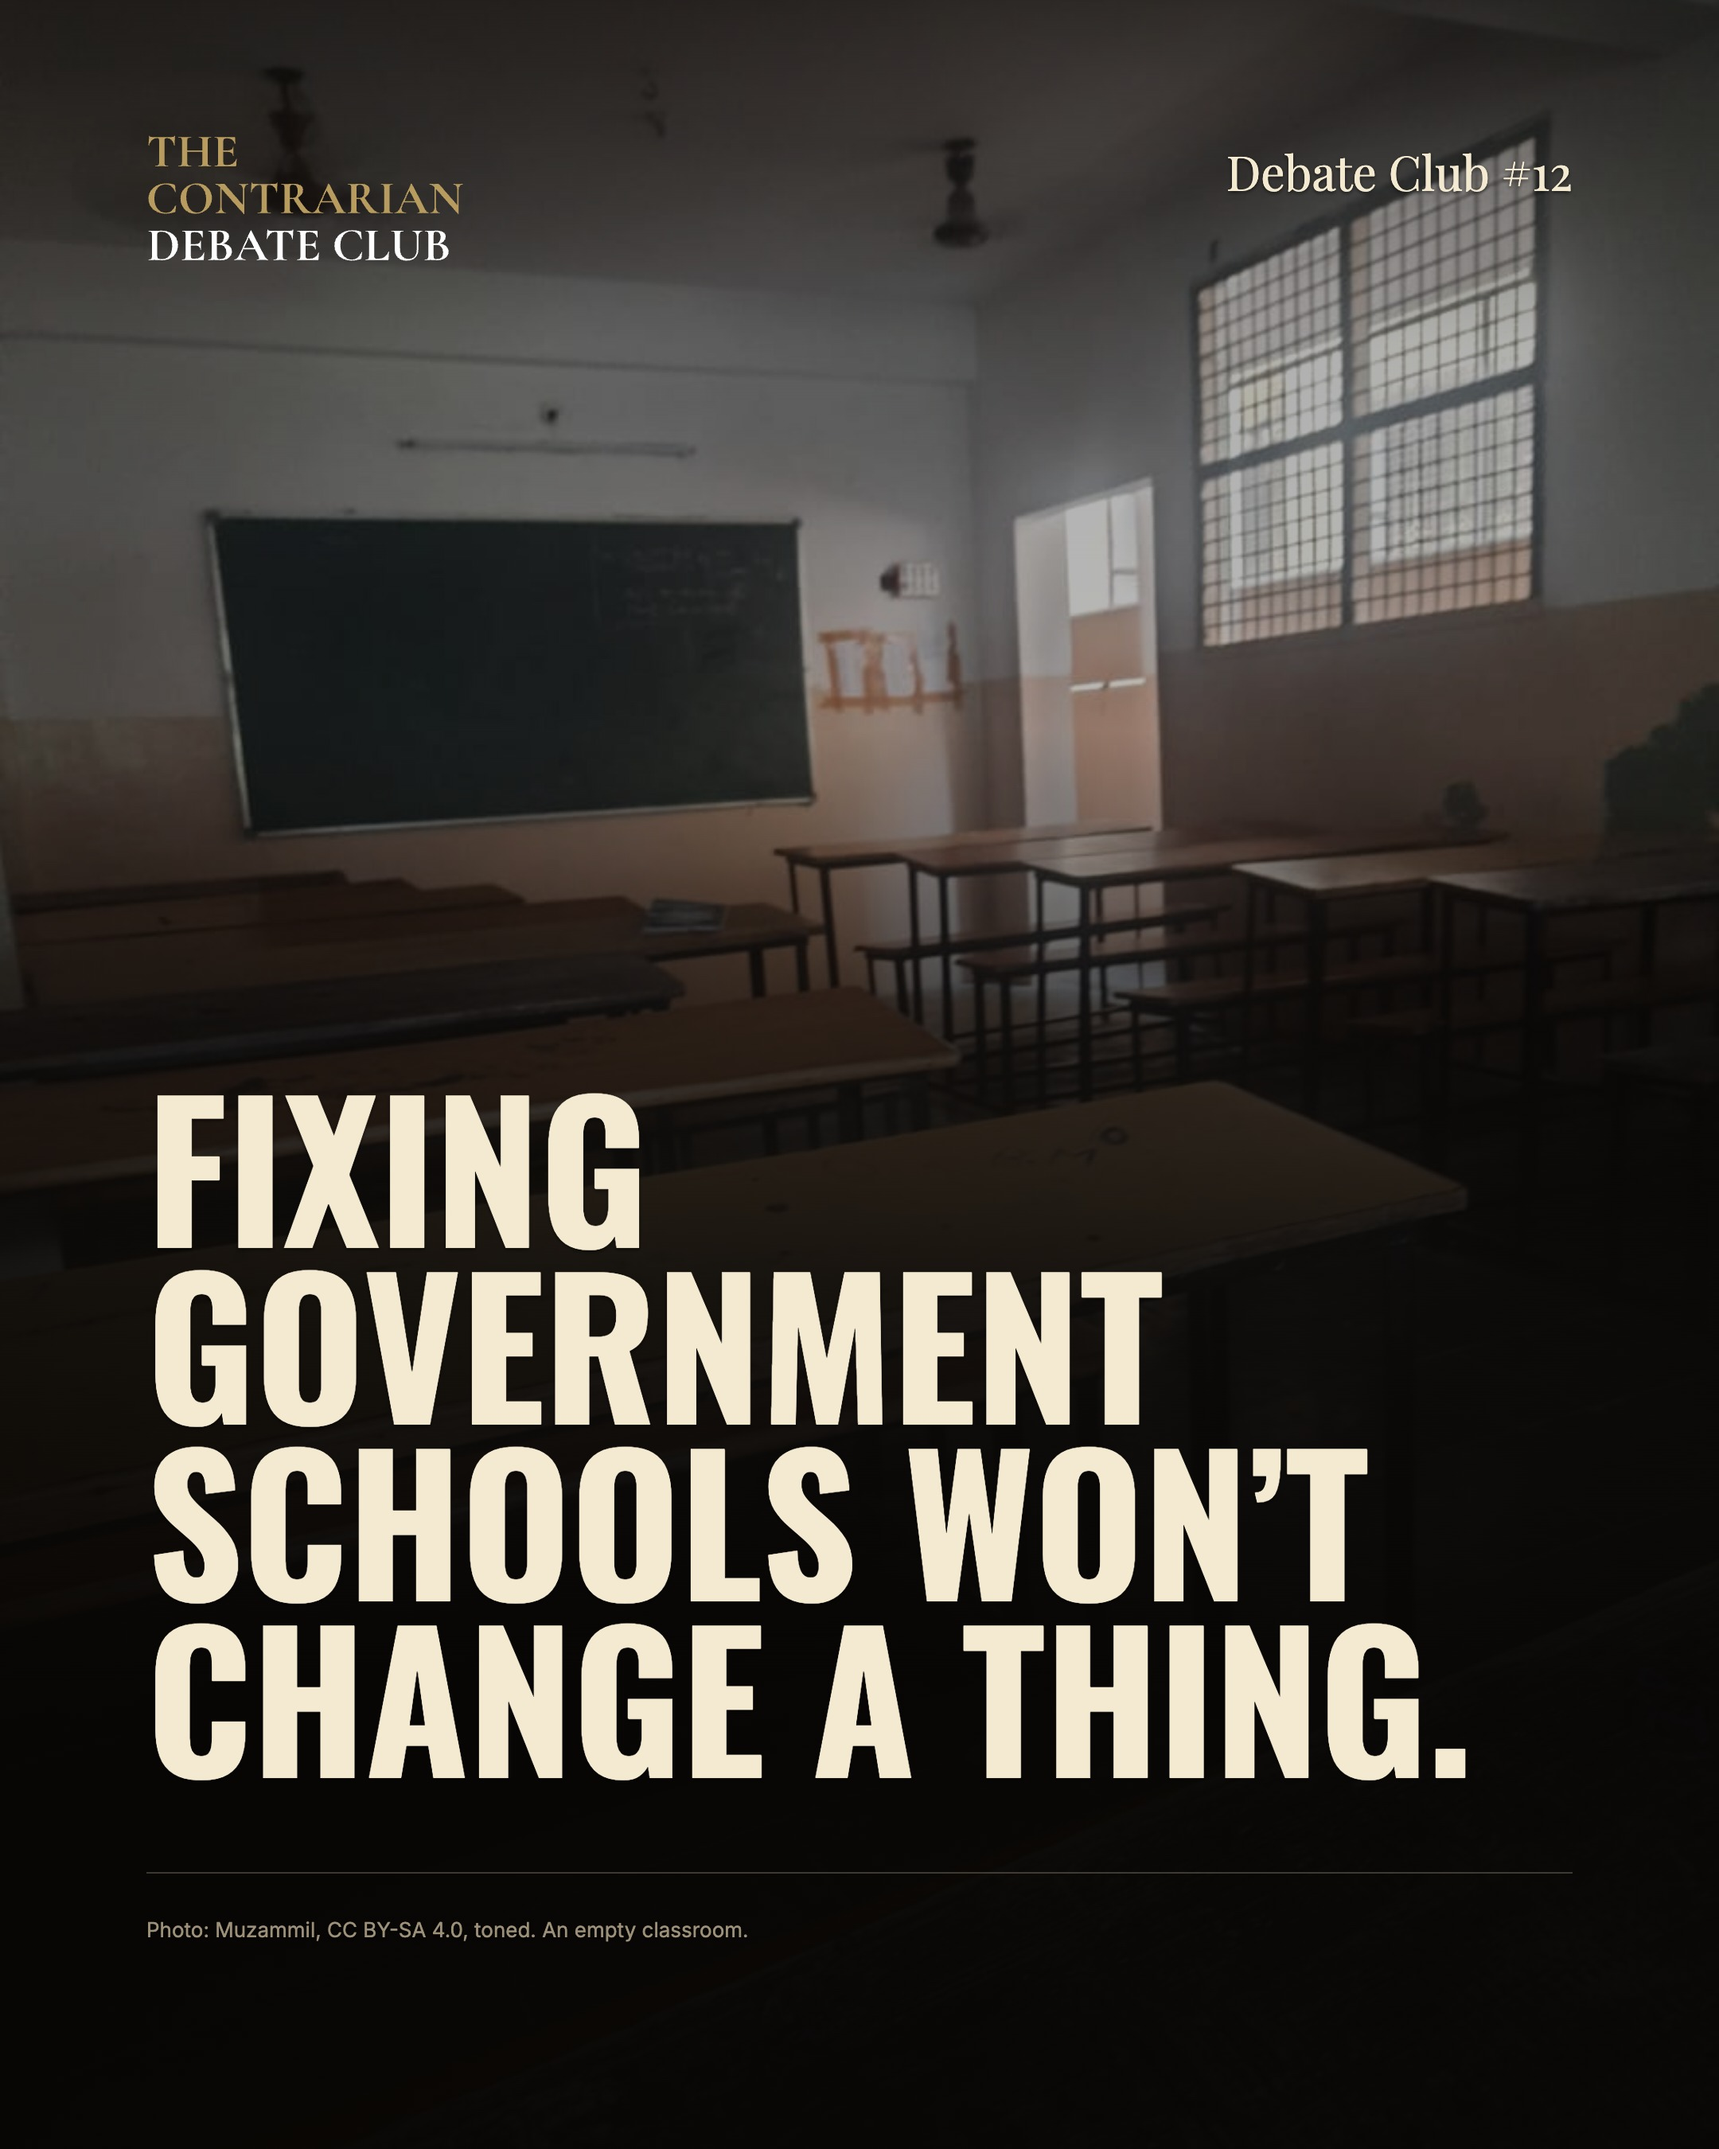
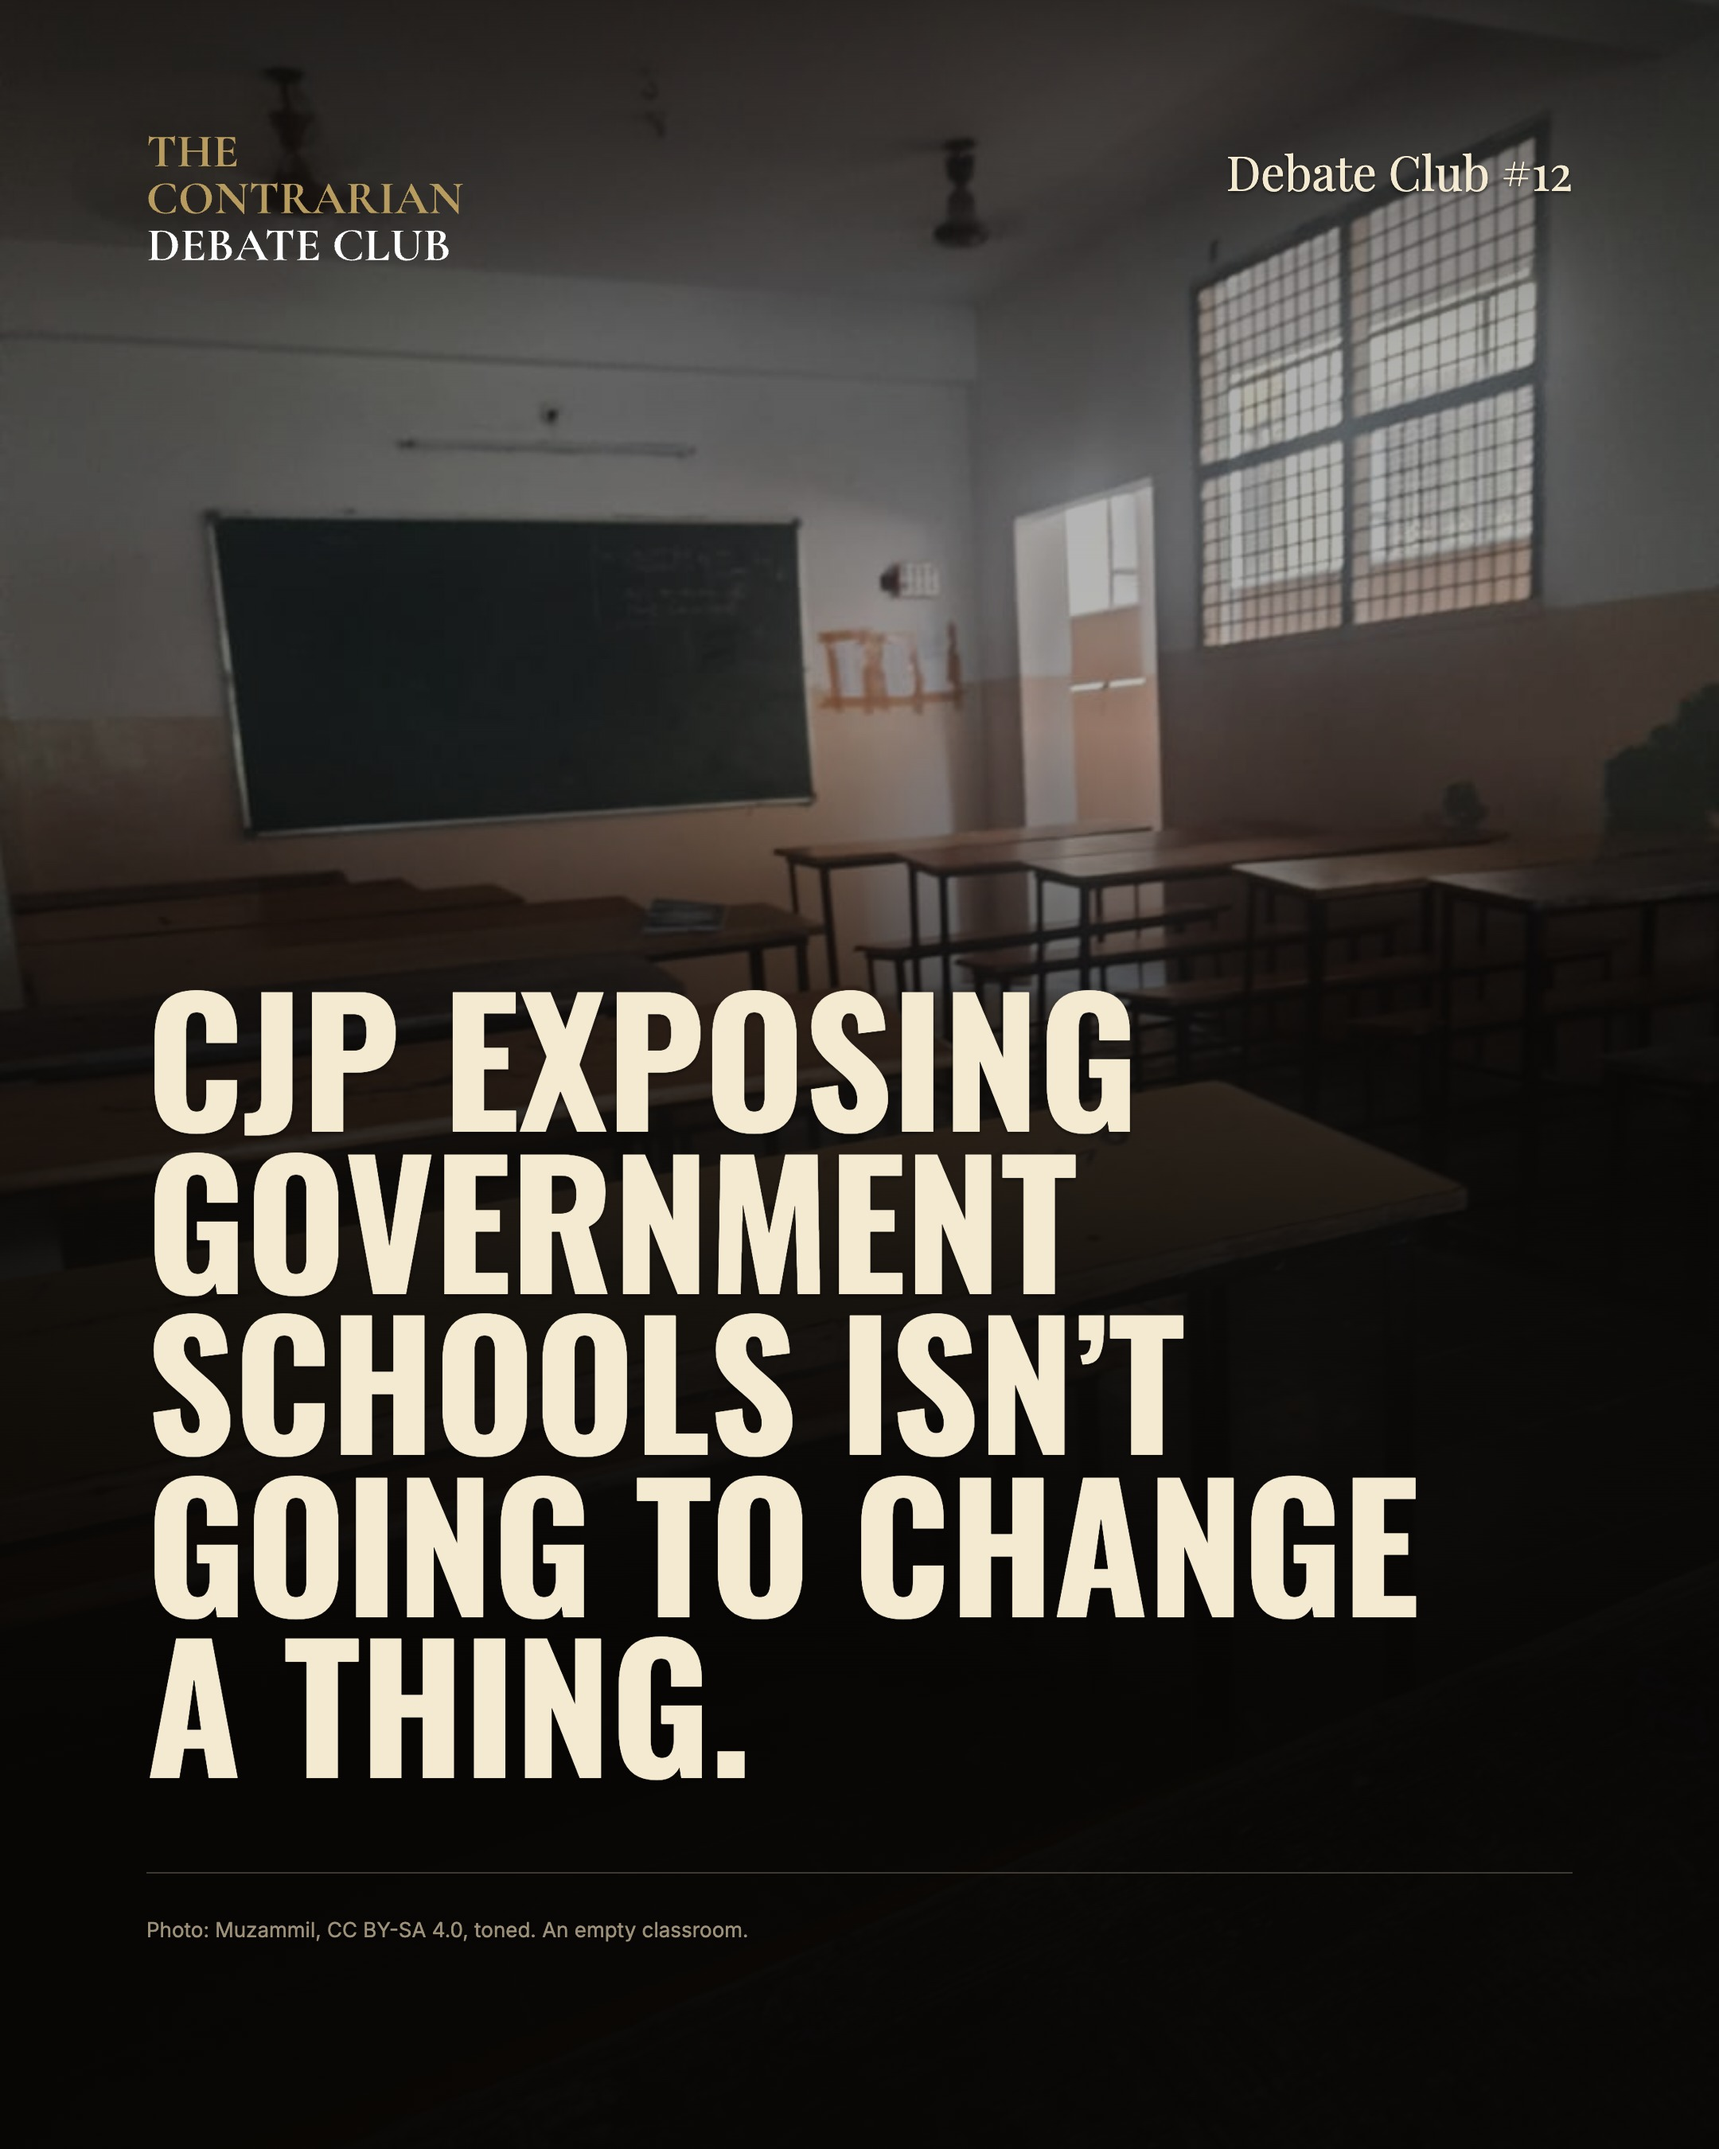
feat(posters): open the schools carousel on CJP
Slide 1 now says CJP exposing government schools isn't going to change
a thing. Slide 2 spells out the Cockroach Janta Party and its campaign.

Changed region(s): [[0.0931, 0.4356, 0.8685, 0.84]]

diff --git a/posters/works/2026-10-10-debate-12-government-schools-carousel/slides.tsx b/posters/works/2026-10-10-debate-12-government-schools-carousel/slides.tsx
@@ -8,7 +8,7 @@ import "./slides.css";
 // ---------------------------------------------------------------------------
 // The story
 //
-//   1  fixing government schools won't change a thing   the claim
+//   1  CJP exposing schools won't change a thing       the claim
 //   2  CJP's Fix the Schools campaign                    the news
 //   3  we've tried this: buildings up, learning not      the record
 //   4  the government runs the school and judges it      the diagnosis

diff --git a/posters/works/2026-10-10-debate-12-government-schools-carousel/spec.tsx b/posters/works/2026-10-10-debate-12-government-schools-carousel/spec.tsx
@@ -153,8 +153,8 @@ const work: WorkSpec = {
           plate={classroom}
           crop={{ x: 0.5, y: 0.5, scale: 1 }}
           edition={EDITION}
-          hook={["Fixing", "government", "schools won’t", "change a thing."]}
-          size={118}
+          hook={["CJP exposing", "government", "schools isn’t", "going to change", "a thing."]}
+          size={108}
         />
       ),
     },
